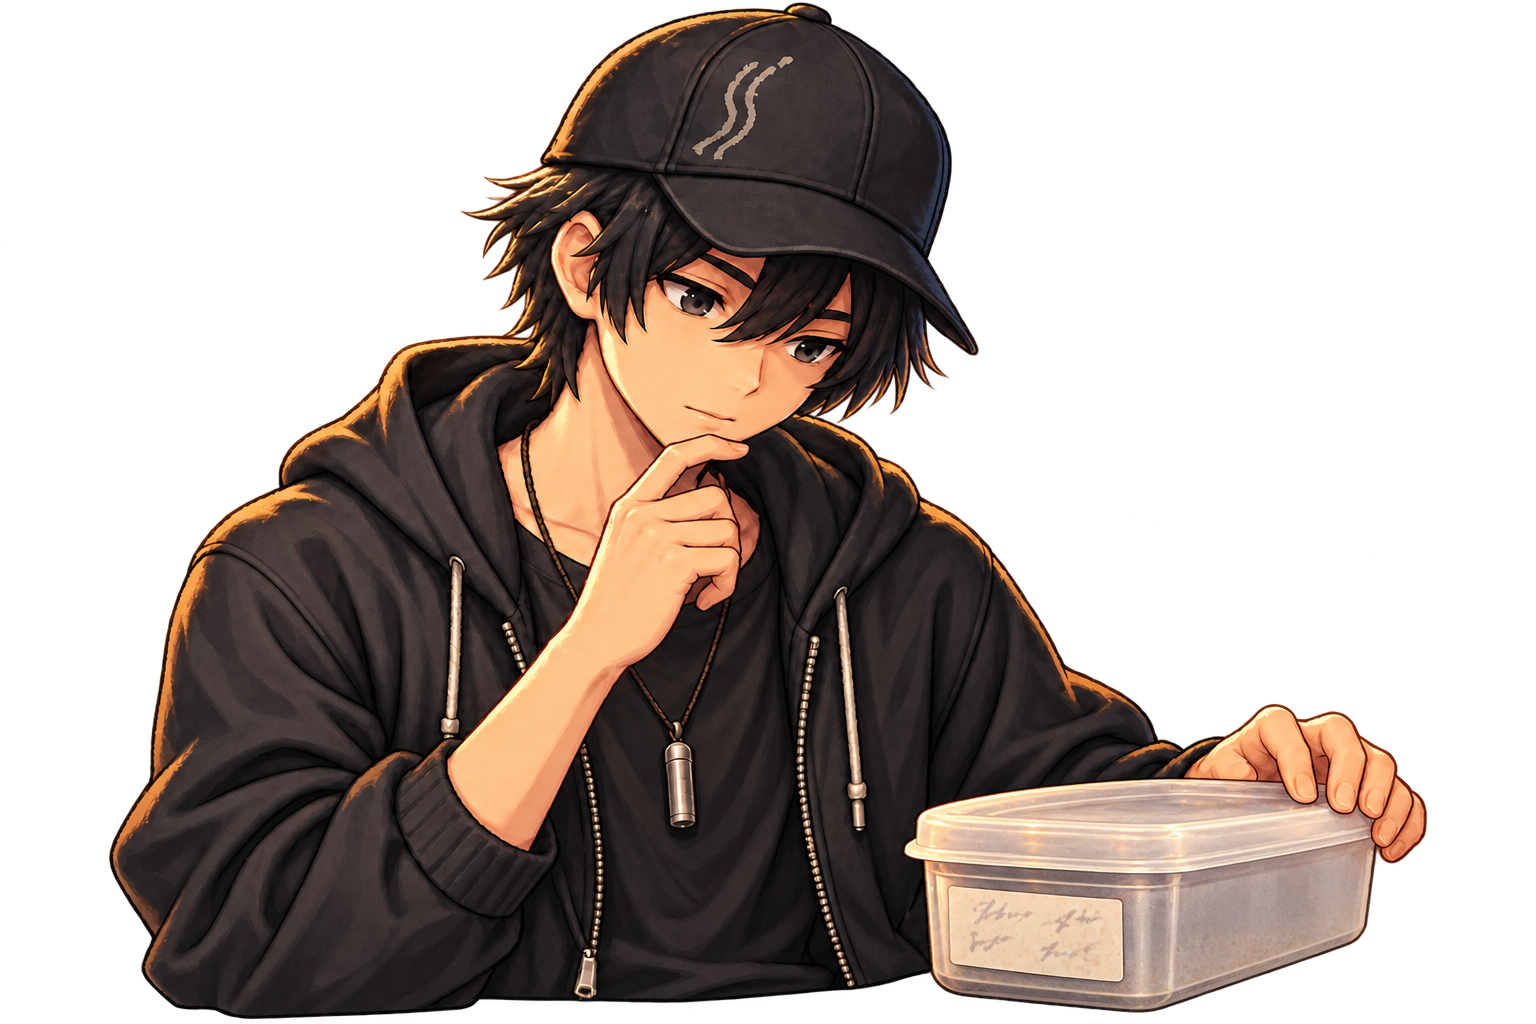
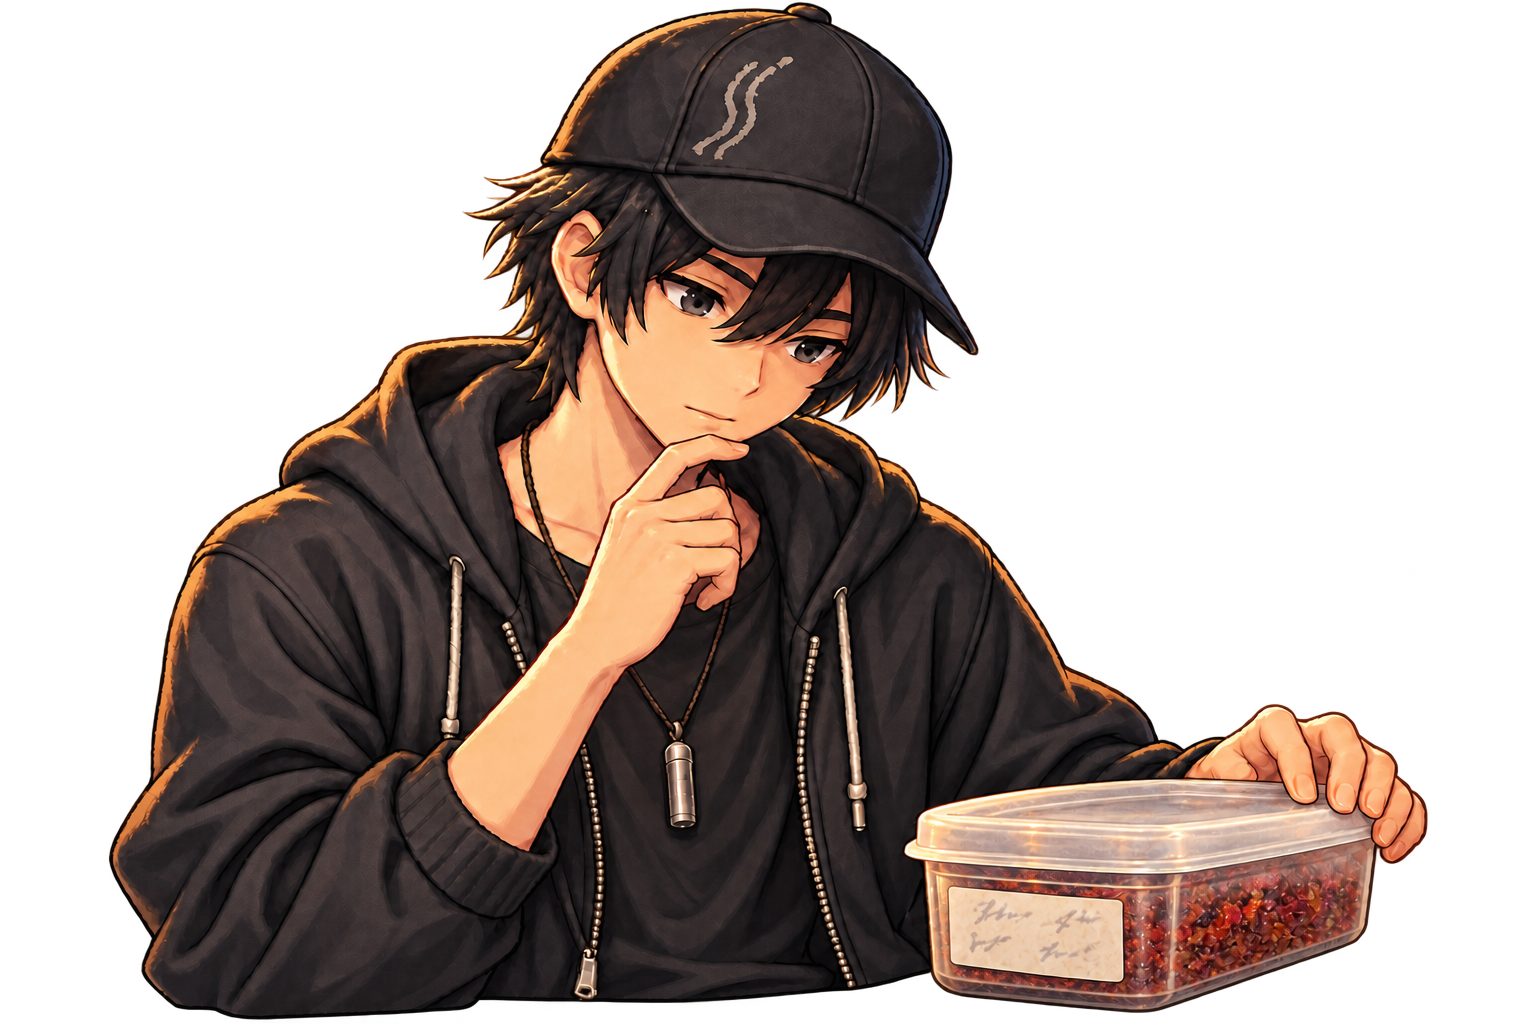
art(craft): show reddish flavor inside the choosing-scene tub

diff --git a/docs/qa/craft-scenes-issue402/README.md b/docs/qa/craft-scenes-issue402/README.md
@@ -40,3 +40,11 @@ node remake/test/browser/craft_progress.mjs
 ```
 
 残る確認: 物理スマホ/Safari、公開版（未マージなので変更なし）、選択装備全種類の手元画像差分。葉詰めは代表的ファンネルを描く。#355は別worker予約中で完全除外、#360の背景/#356の本番弾幕処理に変更なし。追加確認した他workerのOpen PR #435/#436/#438を取り込まない。
+
+## 選択シーンの中身の赤み訂正
+
+mix-v4はオーナーの追加指示で、容器内を赤茶色の湿ったフレーバーへ局所編集。閉じた容器1個・短い端面だけのシール・穏やかな表情を維持。配合/穴あけ/炭焼き/吸引などのJS/CSSに変更なし。
+
+原寸1536×1024 RGBAの透過を確認し、既存の制作素材ビルドで1280×853 WebPへ変換。PC1280×720と実タッチ844×390の本番配合UIで画像デコード・表示・10gアップル＋2gミントの操作を確認。配合を選んでも汎用容器の画像は一定。2ケースPASS。[結果](mix-v4-visual.json)、[PC](screens/pc-red-mix.png)、[タッチ](screens/touch-red-mix.png)。9枚合計1,023,904bytes。前述の19ケースはc6cc01a時点の結果であり、赤みだけの変更では画面確認を追加した。
+
+再開前にmain90ae31e・現行Issue/PR/Open PRを照合し、同じworkerとclaim38258703042のstatus38271982529 SUCCESSをログで確認。#436/#438など別workerの変更がmainへ反映されたことは確認し、その候補導入は本作業へ混ぜない。mainは未マージ、予約を保持。
